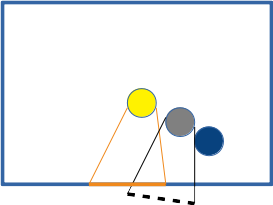
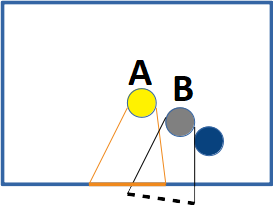
update & streamline SLAM slides

Changed region(s): [[0.6154, 0.3512, 0.7326, 0.4976], [0.4689, 0.2927, 0.5568, 0.439]]

diff --git a/slides/Navigation/source/SLAM.html b/slides/Navigation/source/SLAM.html
@@ -38,117 +38,44 @@ name: main_title
 
 * The goal of SLAM  is to create or enhance an environment map.
 
+* Mathematically,
+    - Given the Robot's Controls and Observations
+    - Calculate the Map of the environment and Path of the robot.
+
 * Maps represent the environment, either 2D or 3D.
 
-* Is actually a tough problem to solve!
+* Is actually a tough problem to solve! Troubling humanity since 1985 [source](http://ais.informatik.uni-freiburg.de/teaching/ws12/mapping/pdf/slam01-intro.pdf)
 
 ---
 
-## Mapping - SLAM
-### Algorithms
+## Mapping - Algorithms
 
-* Filtering:
-  * Particle filter (Gmapping eloquent), EKF(extended Kalman filter)
-  * Model the problem as Online state estimation
-
-* Smoothing:
-  * Full trajectories are estimated using a set of measurements
-  * Graph-based SLAM, e.g. Pose graph optimization (Cartographer, SLAM toolbox, Karto SLAM)
-
----
-
-## Mapping - SLAM
-#### Pose graph
-
-.cols[
-  .fifty[
-  <img src="../static/slam_case.png" alt="slam_case" style="height:120px" class="image-left"/>
-  ]
-  .fifty[
-  <img src="../static/slam_case_no_error.png" alt="slam_no_error" style="height:120px" class="image-left"/>
-  ]
-]
-
-.cols[
-  .fifty[
-  Robot(yellow circle) move in a close space with an obstacle(blue circle)
-  ]
-  .fifty[
-  Ideal situation
-  ]
-]
-
-.cols[
-  .fifty[
-  <img src="../static/slam_case_error.png" alt="slam_case_error" style="height:120px" class="image-left"/>
-  ]
-  .fifty[
-  <img src="../static/slam_case_errors.png" alt="slam_case_errors" style="height:120px" class="image-left"/>
-  ]
-]
-
-.cols[
-  .fifty[
-  Robot with an accurate Lidar, but odometry with large uncertainty (Grey circle: estimated pose)
-  ]
-  .fifty[
-  Robot continues moving around
-  ]
-]
+* Kalman Filters - [source](http://ais.informatik.uni-freiburg.de/teaching/ws12/mapping/pdf/slam08-kf-wrapup.pdf)
+    - Probabilistic, Bayes filter, best for Linear Models and Gaussian distributions
+    - Further specialisations - Extended KF, Unscented KF, Extended Information Filter (EIF), Sparse efficiency
+* Particle Filters - [source](http://ais.informatik.uni-freiburg.de/teaching/ws12/mapping/pdf/slam09-particle-filter.pdf)
+    - Probabilistic, Recursive Bayes filter, also appropriate for non-Gaussian distributions
+    - AKA Monte Carlo Localisation - most commonly used
+* Graph based - [source](http://ais.informatik.uni-freiburg.de/teaching/ws12/mapping/pdf/slam17-ls-landmarks.pdf)
+    - Deterministic, Graph of a problem with nodes for poses & edges for spatial constraints between poses
+    - Build the graph and find a node configuration that minimizes the error introduced by the constraints
 
 ---
 
-## Mapping - SLAM
-#### Pose graph
+## Mapping - Map types
 
 .cols[
   .fifty[
-  <img src="../static/slam_case_error.png" alt="slam_case_error" style="height:120px" class="image-left"/>
+  <img src="../static/grid_map.png" alt="grid_map" style="height:190px" class="image-left"/>
   ]
   .fifty[
-  <img src="../static/slam_case_errors.png" alt="slam_case_errors" style="height:120px" class="image-left"/>
-  ]
-]
-
-.cols[
-  .fifty[
-  <img src="../static/slam_pose_graph.png" alt="slam_pose_graph" style="height:120px" class="image-left"/>
+  <img src="../static/graph_map.jpg" alt="graph_map" style="height:190px" class="image-left"/>
   ]
   .fifty[
-  <img src="../static/slam_loop_closure.png" alt="slam_loop_closure" style="height:120px" class="image-left"/>
-  ]
-]
-
-.cols[
-  .fifty[
-  Pose graph (node of graph: pose, encoded The edges between the nodes: measurement information
-  ]
-  <!-- node: environment measurement associated with robot pose -->
-  .fifty[
-  Loop closure
-  ]
-]
-
-Optimization: find the node configuration that will have the smallest error with respect to the measured data.
-<!-- Diagram-based SLAM algorithms are typically more
-effective than other approaches during the long-term
-map maintenance and as well as during the large-
-scale surroundings mapping. -->
-
----
-
-## Mapping - SLAM
-### Types of maps
-
-.cols[
-  .fifty[
-  <img src="../static/grid_map.png" alt="grid_map" style="height:210px" class="image-left"/>
+  <img src="../static/feature_based_map.png" alt="feature_map" style="height:190px" class="image-left"/>
   ]
   .fifty[
-  <img src="../static/graph_map.jpg" alt="graph_map" style="height:210px" class="image-left"/>
-  ]
-  .fifty[
-  <img src="../static/feature_based_map.png" alt="feature_map" style="height:210px" class="image-left"/>
+  <img src="../static/slam_landmark.jpg" alt="feature_map" style="height:190px" class="image-left"/>
   ]
 ]
 .cols[
@@ -162,31 +89,21 @@ scale surroundings mapping. -->
   Feature based map (Zhang & Xie & Adams, 05).
   <!-- Given: Observations of nearby features, Estimate: Map of features, path -->
   ]
+  .fifty[
+  Landmark based 
+  ]
 ]
+
+*  Grid based maps 
+  * Binary Occupancy map
+  * Probability is calculated for each grid cell (Bayes filter)
+  * Occupied - 1; Not occupied - 0; No knowledge - 0.5
 
 [source](http://ais.informatik.uni-freiburg.de/teaching/ss12/robotics/slides/12-slam.pdf)
 
 ---
 
-## Mapping - SLAM
-### grid-based map (2D/3D)
-
-* Binary Occupancy map
-  * Probability  is calculated for each grid cell (Bayes filter)
-
-.cols[
-  .fifty[
-  <img src="../static/turtlebot_map.png" alt="grid_map" style="height:200px" class="image-center"/>
-  ]
-]
-
-  * Cell is occupied: 1
-  * Cell is not occupied: 0
-  * No knowledge = 0.5
-
----
-
-## Mapping - SLAM
+## Mapping - 3D Maps
 ### Octree
 
 * Tree-based data structure
@@ -207,8 +124,54 @@ source: [OctoMap](http://www.arminhornung.de/Research/pub/hornung13auro.pdf)
 
 ---
 
-## Mapping - SLAM
-### ROS2 tools
+## Mapping - Pose Inaccuracy
+
+.cols[
+  .fifty[
+  <img src="../static/slam_case.png" alt="slam_case" style="height:100px" class="image-left"/>
+  ]
+  .fifty[
+  <img src="../static/slam_case_no_error.png" alt="slam_no_error" style="height:100px" class="image-left"/>
+  ]
+  .fifty[
+  <img src="../static/slam_case_error.png" alt="slam_case_error" style="height:100px" class="image-left"/>
+  ]
+  .fifty[
+  <img src="../static/slam_case_errors.png" alt="slam_case_errors" style="height:120px" class="image-left"/>
+  ]
+  .fifty[
+  <img src="../static/slam_loop_closure.png" alt="slam_loop_closure" style="height:120px" class="image-left"/>
+  ]
+]
+
+.cols[
+  .fifty[
+  Fig 1
+  ]
+  .fifty[
+  Fig 2
+  ]
+  .fifty[
+  Fig 3
+  ]
+  .fifty[
+  Fig 4
+  ]
+  .fifty[
+  Fig 5
+  ]
+]
+
+Fig 1: Closed environment with Robot (Yellow) and Obstacle (Blue)   
+Fig 2: When robot moves from A to B and is perfectly tracked (Perfect sensor & odometry)   
+Fig 3: When robot moves from A to B but has pose inaccuracy (Imperfect sensor &/or odom)   
+Fig 4: Mapping with pose inaccuracy (Imperfect sensor & odom)   
+Fig 5: Loop closure problem:  After one loop, Starting Pose A = Ending Pose B in real world, but not in map.   
+
+
+---
+
+## Mapping - SLAM in ROS2
 
 SLAM for ROS2 unfortunately does not have a golden standard yet. Some contenders are:
 
